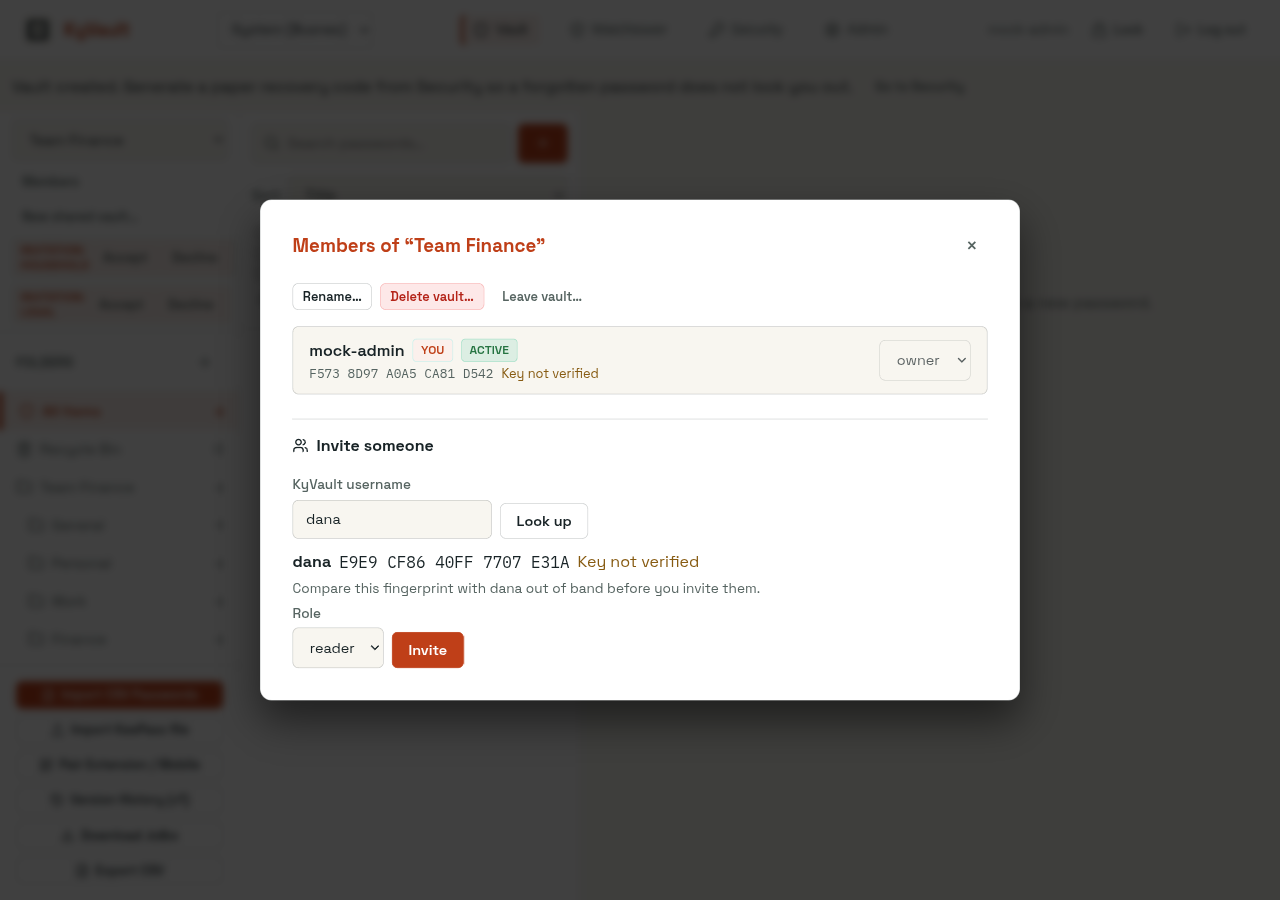
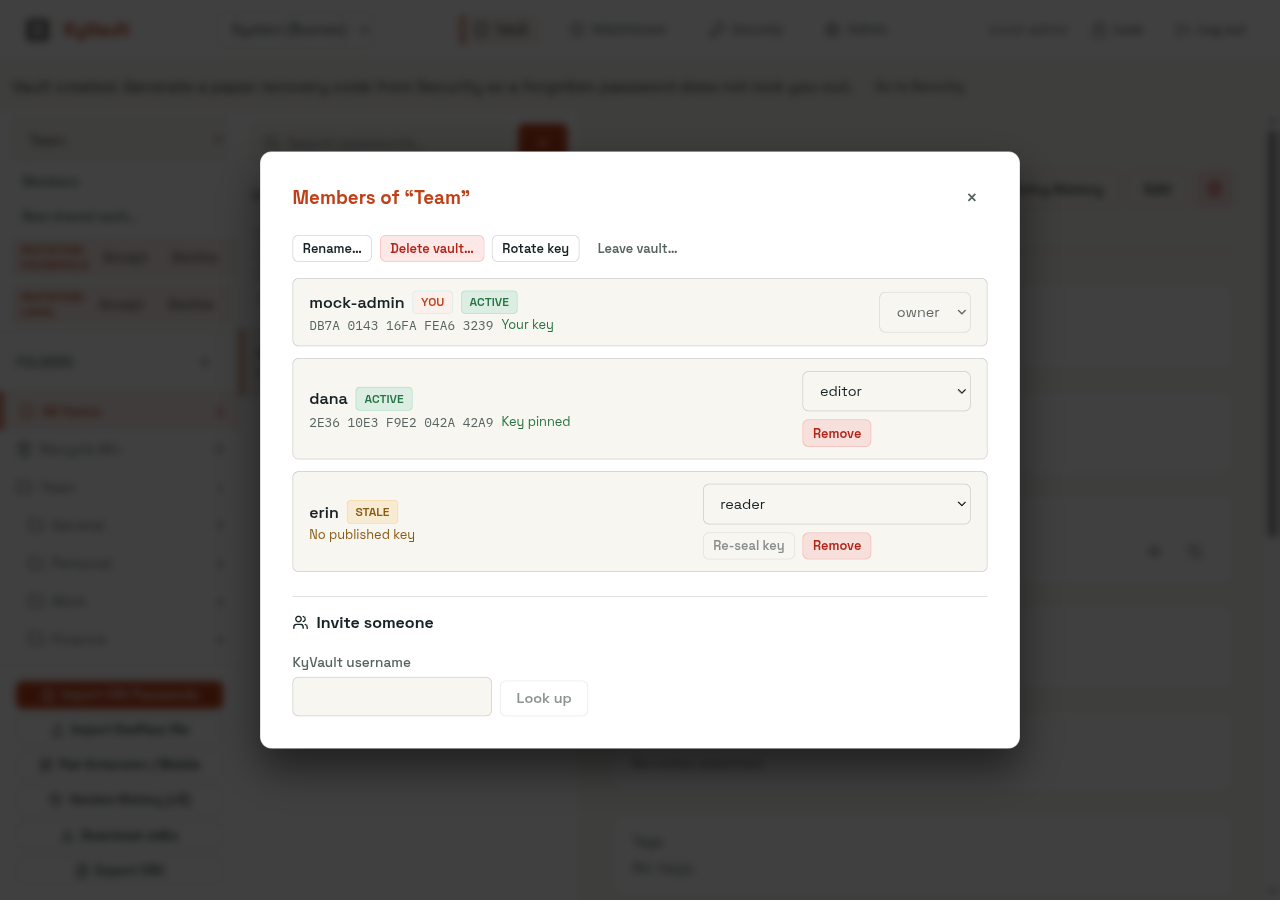
docs: the rotation UI pass, captured from dev:mock
Three screenshots: the Members dialog carrying the pending-rotation banner
and an enabled Rotate key, the report after a rotation that left erin
behind, and shared-members.png re-captured, which had predated the "Your
key" fix and still showed the old label.

What the pass proved beyond the pictures: the rotated vault came back at
epoch 2 with no history rows, and the next edit autosaved, so the tab
adopted the new epoch instead of writing under the retired one. The
refusals the UI never sends — a stale or absent epoch header, parts out of
order, a stale rotation, a fingerprint the user no longer publishes — were
checked with curl and are listed with what could not be reached.

diff --git a/UI-VERIFICATION.md b/UI-VERIFICATION.md
@@ -76,9 +76,9 @@ Exercised in the browser, in this order:
 
 Checked against the mock outside the browser (`curl`), because the UI refuses these client-side: a reader's upload is 403, a non-member's vault is 404, an unaccepted row reading data is 403, demoting the last owner is 409, and a re-seal with a fingerprint the user no longer publishes is 400.
 
-Not exercised: a real KyVault server (everything here is the mock), dark mode and mobile widths for these screens, a second signed-in user, shared key rotation (3c, not built), the stale self-reseal screen (it needs another user's key replace), and the KySignOn sign-in behind the "Sign in again" link. The Accept dialog's "changed" state was captured as the invitation drift; the other route to it — a published key that no longer matches the pin — is covered by `sharedFlows.test.ts`, not by a screenshot, because the mock's dana key is fixed for the life of the process. `POST /api/mock/role` is a dev-only mock route with no server counterpart, used in step 8 because the UI deliberately refuses to change your own role.
+Not exercised: a real KyVault server (everything here is the mock), dark mode and mobile widths for these screens, a second signed-in user, the stale self-reseal screen (it needs another user's key replace), and the KySignOn sign-in behind the "Sign in again" link. The Accept dialog's "changed" state was captured as the invitation drift; the other route to it — a published key that no longer matches the pin — is covered by `sharedFlows.test.ts`, not by a screenshot, because the mock's dana key is fixed for the life of the process. `POST /api/mock/role` is a dev-only mock route with no server counterpart, used in step 8 because the UI deliberately refuses to change your own role.
 
-Found while capturing and fixed after it: the Members dialog labelled the signed-in user's own key "Key not verified", because a pin for yourself is never written. Your own row now reads "Your key", or "Not the key this browser holds" when the published key is not the one this tab holds. `docs/shared-members.png` predates the fix and still shows the old label.
+Found while capturing and fixed after it: the Members dialog labelled the signed-in user's own key "Key not verified", because a pin for yourself is never written. Your own row now reads "Your key", or "Not the key this browser holds" when the published key is not the one this tab holds. `docs/shared-members.png` was re-captured in the rotation pass below and shows the current label.
 
 ### Screenshots
 
@@ -92,3 +92,29 @@ Found while capturing and fixed after it: the Members dialog labelled the signed
 | A reader's read-only vault | ![Read-only](docs/shared-readonly.png) |
 | Admin → Shared vaults | ![Admin](docs/shared-admin.png) |
 | Admin refusing a delete without a fresh sign-in | ![Admin re-auth](docs/shared-admin-reauth.png) |
+
+## Shared vault key rotation
+
+Captured 2026-09-28 from `npm run dev:mock` on :5878 (`frontend/mock/api.ts`, dev-only, never built), Chromium through the Playwright MCP tools at 1280×900 CSS pixels, theme System (Busnes) following the OS, which resolved light. No backend and no KySignOn: the mock now serves `rotationPending`, the `X-Shared-Key-Epoch` gate and `POST /api/shared/{id}/rotate`, mirroring the Go handlers by hand. The seeded "Team" vault is owned by the mock user, its key is sealed to the user key the browser published (real HPKE, so it really opens), its pending flag is already set for a removed `u-4`, and `erin` (u-3) publishes no key.
+
+Exercised in the browser, in this order:
+
+1. Created a vault (master password `correct horse battery staple`), which published a user key and let the mock seed "Team". The switcher read "Team — Needs rotation": the pending badge is shown to an owner.
+2. Selected "Team". It opened — the sealed copy the mock made opened with this tab's seed — and created and uploaded its KDBX at key epoch 1.
+3. Members: the red banner "u-4 was removed on 9/27/2026, 8:29:18 PM. Their copy of the key still opens anything this vault saved before a rotation. Rotating re-keys the vault for everyone who remains." above an enabled "Rotate key". My own row read "Your key", dana "Key not verified" (no pin yet), erin "No published key". The banner names the departed member by user id, because their row is gone: the server has nothing else to call them by. (`docs/shared-rotate.png`)
+4. Rotate key → the confirm spelling out that the version history and preserved conflicts are deleted → confirmed. The report read "Rotated. 2 members have the new key. erin (No published key) did not get a copy. Verify their key and re-seal them from this dialog." Dana's row came back `active` and "Key pinned" — trust on first use pinned her key as the rotation sealed to it — and erin's went `stale` with Re-seal key disabled, since there is still no key to seal to. The banner was gone. (`docs/shared-rotated.png`)
+5. Read back from the mock: `keyEpoch` 2, `rotationPending` cleared, u-1 and u-2 at epoch 2, u-3 left at 1, version 2 and **no** history rows — the snapshots under the retired key went with it.
+6. Added an entry to the rotated vault: it autosaved to version 3 and the status read "All changes saved", so the tab adopted the new epoch rather than writing under the retired one.
+7. Re-opened Members with no rotation pending for the `docs/shared-members.png` re-capture.
+
+Checked against the mock outside the browser (`curl`), because the UI never sends these: an upload claiming epoch 1 after the rotation is 409 "the shared vault key was rotated; reload the vault", an upload with no `X-Shared-Key-Epoch` at all is the same 409, an upload at the current epoch but a stale `If-Match` is still the ordinary version conflict, a rotate whose parts arrive `keys` before `kdbx` is 400 `rotate takes exactly two parts, "kdbx" then "keys"`, a rotate at a stale epoch is 409 "the shared vault changed; reload it and rotate again", and a rotate sealing to a fingerprint that user does not publish is 400. Removing a member set `rotationPending` `removed` on the list, and declining an invitation set `declined`; both reached the admin payload.
+
+Not exercised: a real KyVault server (everything here is the mock), dark mode and mobile widths for these screens, the "left" pending reason (the same ternary as "declined"; the mock user is an owner in the only vault where they could leave), the rotation whose response was lost and is re-opened rather than adopted (`sharedRotation.test.ts` covers it; the mock cannot drop its own response), a rotation racing another member's save, the admin "Rotation pending" badge as a screenshot, and the fresh-sign-in and CSRF gates the real route puts in front of a rotation, which the mock has no notion of.
+
+### Screenshots
+
+| What | Image |
+| --- | --- |
+| Members with a pending rotation and the Rotate key button | ![Rotate](docs/shared-rotate.png) |
+| The report after a rotation that left a member behind | ![Rotated](docs/shared-rotated.png) |
+| Members, re-captured after the rotation | ![Members](docs/shared-members.png) |
